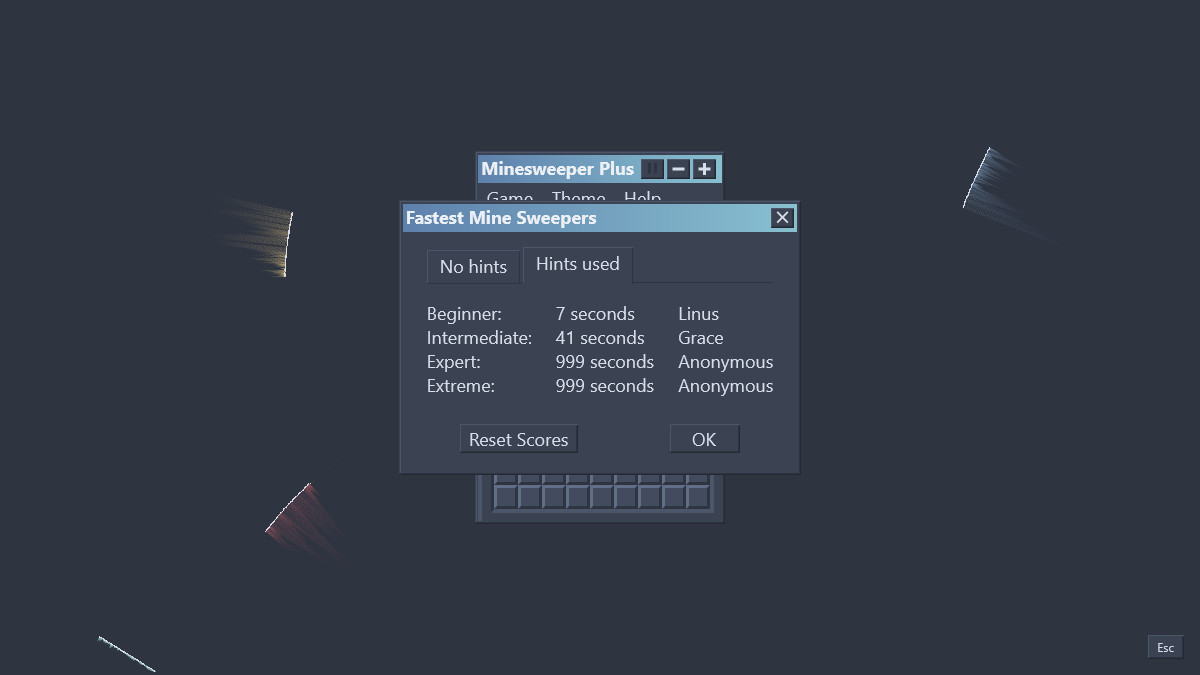
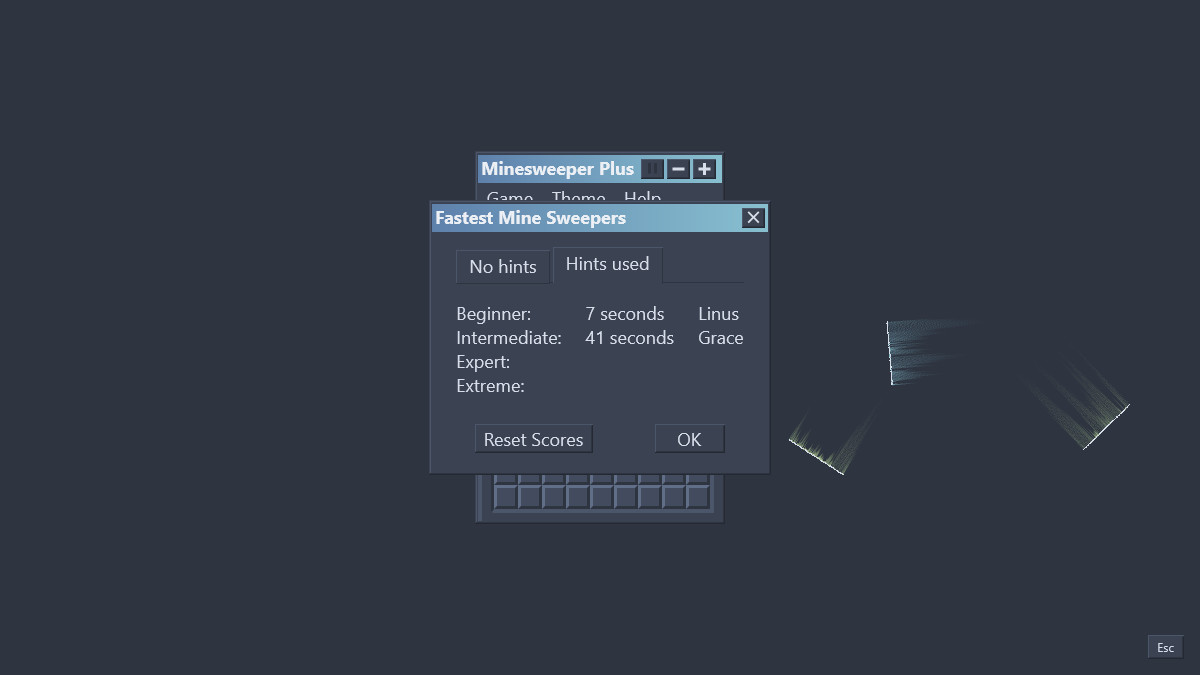
Finish Takuzu: rain glyphs, About, README and screenshots
Takuzu's Theme menu gets Rain Glyphs on Matrix, drawing 0 and 1 as two
glyphs from the digital rain with its glow, and a Help menu with an About
box. Esc now closes an open menu before it shows the spreadsheet, in both
games. The README covers both games, with Takuzu screenshots and link
preview, and the best times screenshot is retaken without 999.

diff --git a/src/shell/backgrounds/matrix.js b/src/shell/backgrounds/matrix.js
@@ -95,32 +95,52 @@ const newStrip = (count) => {
 //each sprite is padded to hold a glyph plus the glow around it
 const PAD = 1.6
 
+export const GLYPH = '#2cff6e'
+export const BRIGHT = '#d4ffe0'
+
+//one mirrored glowing glyph centred at x, y in a cell sized sprite
+const drawGlyph = (context, glyph, x, y, cell, colour) => {
+  context.save()
+  context.font = `${Math.round((cell / PAD) * 0.8)}px monospace`
+  context.textAlign = 'center'
+  context.textBaseline = 'middle'
+  context.fillStyle = colour
+  context.shadowColor = colour
+  context.translate(x, y)
+  context.scale(-1, 1)
+  //a wide soft halo then a tighter one for a phosphor glow
+  context.shadowBlur = cell * 0.3
+  context.fillText(glyph, 0, 0)
+  context.fillText(glyph, 0, 0)
+  context.shadowBlur = cell * 0.07
+  context.fillText(glyph, 0, 0)
+  context.restore()
+}
+
 //mirrored glowing glyphs, a plain row and a bright row
 const buildAtlas = (glyphs, cell) => {
   const atlas = document.createElement('canvas')
   atlas.width = cell * glyphs.length
   atlas.height = cell * 2
   const context = atlas.getContext('2d')
-  context.font = `${Math.round((cell / PAD) * 0.8)}px monospace`
-  context.textAlign = 'center'
-  context.textBaseline = 'middle'
-  ;['#2cff6e', '#d4ffe0'].forEach((colour, row) => {
-    context.fillStyle = colour
-    context.shadowColor = colour
+  ;[GLYPH, BRIGHT].forEach((colour, row) => {
     glyphs.forEach((glyph, i) => {
-      context.save()
-      context.translate((i + 0.5) * cell, (row + 0.5) * cell)
-      context.scale(-1, 1)
-      //a wide soft halo then a tighter one for a phosphor glow
-      context.shadowBlur = cell * 0.3
-      context.fillText(glyph, 0, 0)
-      context.fillText(glyph, 0, 0)
-      context.shadowBlur = cell * 0.07
-      context.fillText(glyph, 0, 0)
-      context.restore()
+      drawGlyph(context, glyph, (i + 0.5) * cell, (row + 0.5) * cell, cell, colour)
     })
   })
   return atlas
+}
+
+export const rainGlyphs = encodings.matrix
+
+//a single rain glyph as an image url, for other pages to draw with, null without canvas
+export const glyphImage = (glyph, cell, colour = GLYPH) => {
+  const canvas = document.createElement('canvas')
+  canvas.width = canvas.height = cell
+  const context = canvas.getContext('2d')
+  if (!context) return null
+  drawGlyph(context, glyph, cell / 2, cell / 2, cell, colour)
+  return canvas.toDataURL()
 }
 
 //the defaults are the look the matrix theme was tuned with

diff --git a/src/takuzu/About.jsx b/src/takuzu/About.jsx
@@ -1,0 +1,55 @@
+import { h } from 'hyperapp'
+import s from '../About.module.css'
+import Overlay from '../Overlay'
+import Dialog from '../Dialog'
+import Button from '../Button'
+
+const Link = ({ href }, children) => (
+  <a class={s.link} href={href} target="_blank" rel="noopener noreferrer">
+    {children}
+  </a>
+)
+
+const About = ({ key, actions }) => (
+  <Overlay key={key} onKeyDown={(event) => event.keyCode === 27 && actions.toggleAbout()}>
+    <Dialog title="About Takuzu Plus" onClose={actions.toggleAbout}>
+      <div class={s.root}>
+        <p class={s.name}>Takuzu Plus</p>
+        <p>
+          Binary puzzles: fill the grid with 0s and 1s so that no row or column has three alike in a
+          row, every row and column holds as many 0s as 1s, and no two rows or two columns are the
+          same.
+        </p>
+        <p>
+          Every board has exactly one solution and can be solved by logic alone, from easy to
+          expert, and hints explain their reasoning. Takuzu, also known as Binairo, was devised by
+          Frank Coussement and Peter De Schepper.
+        </p>
+        <p>
+          Part of Puzzles by fexofenadine, sharing its window, themes and backgrounds with
+          Minesweeper Plus, which is based on{' '}
+          <Link href="https://github.com/frenzzy/minesweeper">Minesweeper</Link> by Vladimir
+          Kutepov.
+        </p>
+        <p>
+          Uses canvas ports of xscreensaver's GLMatrix, Substrate, Truchet and Phosphor under the
+          xscreensaver licence, fonts under the SIL Open Font License and LGPL 2.1, photos from
+          Unsplash and CC0 photos from Wikimedia Commons, and the SynthWave '84, Solarized and Nord
+          colour schemes. Released under the MIT licence; full credits are in the README.
+        </p>
+        <p>
+          <Link href="https://github.com/fexofenadine/puzzles">
+            github.com/fexofenadine/puzzles
+          </Link>
+        </p>
+        <div class={s.footer}>
+          <Button type="button" onClick={actions.toggleAbout} onCreate={(el) => el.focus()}>
+            <span class={s.button}>OK</span>
+          </Button>
+        </div>
+      </div>
+    </Dialog>
+  </Overlay>
+)
+
+export default About

diff --git a/src/takuzu/app.jsx b/src/takuzu/app.jsx
@@ -12,6 +12,8 @@ import { allowed, levelNames } from './Menu'
 import { EMPTY, emptyBoard, full, sizes, solved } from './rules'
 import { findHint } from './hint'
 import { deal } from './deal'
+import { showRain } from './rain'
+import About from './About'
 
 //the saved size and level, medium 8x8 when missing or out of range
 const loadChoice = () => {
@@ -98,6 +100,8 @@ export const state = {
   hint: null,
   prompt: false,
   errors: Boolean(load('takuzu.errors')),
+  rain: Boolean(load('takuzu.rain')),
+  about: false,
   game: createGame(loadChoice()),
   winner: null,
   bestTime: null,
@@ -108,6 +112,7 @@ export const actions = {
   init: () => (state, actions) => {
     window.addEventListener('keydown', actions.press)
     listen(actions)
+    showRain(state.rain)
     actions.reset()
   },
   press: (event) => (state, actions) => {
@@ -196,6 +201,14 @@ export const actions = {
     save('takuzu.errors', state.errors ? '' : 'yes')
     return { menu: null, errors: !state.errors }
   },
+  toggleRain: () => (state) => {
+    save('takuzu.rain', state.rain ? '' : 'yes')
+    showRain(!state.rain)
+    return { menu: null, rain: !state.rain }
+  },
+  toggleAbout:
+    () =>
+    ({ about }) => ({ menu: null, about: !about }),
   //stop the clock and hide the board, only while a game is running
   pause:
     (paused) =>
@@ -279,6 +292,7 @@ export const view = (state, actions) => (
     {state.backgroundSettings && (
       <BackgroundSettings key="e" state={state.backgroundSettings} actions={actions} />
     )}
+    {state.about && <About key="f" actions={actions} />}
     {state.boss && <Boss key="g" state={state.boss} actions={actions} />}
   </main>
 )

diff --git a/src/takuzu/Cell.module.css b/src/takuzu/Cell.module.css
@@ -141,3 +141,28 @@
 .hintWrong {
   --hint-color: #ff3b3b;
 }
+
+/*rain glyphs on matrix: a green glyph on black for 0, a bright one on dark green for 1*/
+:global(:root[data-theme='matrix'][data-rain]) .zero,
+:global(:root[data-theme='matrix'][data-rain]) .one {
+  color: transparent;
+  background-position: center;
+  background-size: 140%;
+  background-repeat: no-repeat;
+}
+
+:global(:root[data-theme='matrix'][data-rain]) .zero {
+  background-color: #020a04;
+  background-image: var(--tz-rain-0);
+}
+
+:global(:root[data-theme='matrix'][data-rain]) .one {
+  background-color: #0b3d1a;
+  background-image: var(--tz-rain-1);
+}
+
+:global(:root[data-theme='matrix'][data-rain]) .given {
+  box-shadow:
+    inset 1px 1px 0 var(--cell-shadow),
+    inset 0 0 0 3px rgba(57, 210, 107, 0.45);
+}

diff --git a/src/takuzu/rain.js b/src/takuzu/rain.js
@@ -1,0 +1,21 @@
+import { BRIGHT, GLYPH, glyphImage } from '../shell/backgrounds/matrix'
+
+//two glyphs from the matrix rain for 0 and 1, drawn the way the rain draws them
+export const rain = ['ﾊ', 'ﾐ']
+
+//draws them once and hands them to the css, which only uses them on the matrix theme
+export const showRain = (on) => {
+  const root = document.documentElement
+  if (!on) {
+    delete root.dataset.rain
+    return
+  }
+  if (!root.style.getPropertyValue('--tz-rain-0')) {
+    const zero = glyphImage(rain[0], 192, GLYPH)
+    const one = glyphImage(rain[1], 192, BRIGHT)
+    if (!zero || !one) return
+    root.style.setProperty('--tz-rain-0', `url(${zero})`)
+    root.style.setProperty('--tz-rain-1', `url(${one})`)
+  }
+  root.dataset.rain = 'on'
+}

diff --git a/src/shell/ThemeMenu.jsx b/src/shell/ThemeMenu.jsx
@@ -3,8 +3,8 @@ import { MenuItem, Separator, SubMenuItem } from '../Menu'
 import { backgroundFor } from './backgrounds'
 import { themes } from './themes'
 
-//the theme menu every game shares
-const ThemeMenu = ({ state, actions }) => (
+//the theme menu every game shares, a game's own theme options go after it
+const ThemeMenu = ({ state, actions }, children) => (
   <MenuItem name="Theme" type="theme" active={state.menu} onChange={actions.toggleMenu}>
     {themes.map(([theme, name]) => (
       <SubMenuItem
@@ -17,6 +17,7 @@ const ThemeMenu = ({ state, actions }) => (
     {backgroundFor(state.theme) && (
       <SubMenuItem name="Background Settings..." onClick={actions.toggleBackgroundSettings} />
     )}
+    {children}
   </MenuItem>
 )
 

diff --git a/src/shell/actions.js b/src/shell/actions.js
@@ -39,7 +39,9 @@ export const shortcut = (event, state, actions) => {
   const typing = ['INPUT', 'SELECT', 'TEXTAREA'].includes(event.target.tagName)
   if (typing || event.ctrlKey || event.metaKey || event.altKey) return null
   if (event.keyCode === 27) {
-    actions.boss()
+    //an open menu closes first, as in windows
+    if (state.menu) actions.closeMenu()
+    else actions.boss()
     return null
   }
   //the spreadsheet only answers to esc
@@ -47,6 +49,7 @@ export const shortcut = (event, state, actions) => {
 }
 
 export const shellActions = {
+  closeMenu: () => ({ menu: null }),
   setPortrait: (portrait) => ({ portrait }),
   //esc covers everything with a spreadsheet and pauses the game
   boss:

diff --git a/src/takuzu/Menu.jsx b/src/takuzu/Menu.jsx
@@ -41,7 +41,15 @@ const Menu = ({ state, actions }) => (
         />
       ))}
     </MenuItem>
-    <ThemeMenu state={state} actions={actions} />
+    <ThemeMenu state={state} actions={actions}>
+      {state.theme === 'matrix' && <Separator />}
+      {state.theme === 'matrix' && (
+        <SubMenuItem name="Rain Glyphs" checked={state.rain} onClick={actions.toggleRain} />
+      )}
+    </ThemeMenu>
+    <MenuItem name="Help" type="help" active={state.menu} onChange={actions.toggleMenu}>
+      <SubMenuItem name="About Takuzu Plus..." onClick={actions.toggleAbout} />
+    </MenuItem>
   </ul>
 )
 

diff --git a/src/app.test.jsx b/src/app.test.jsx
@@ -436,3 +436,15 @@ it('hides the board while paused and covers the page with the spreadsheet', () =
     )
     app(shown, actions, testView, container)
   }))
+
+it('esc closes an open menu before it shows the spreadsheet', () => {
+  start({ game: chordGame(), menu: { game: true } })
+  const esc = () => wired.press({ keyCode: 27, target: { tagName: 'BODY' } })
+  esc()
+  wired.peek()
+  expect(current.menu).toBe(null)
+  expect(current.boss).toBe(null)
+  esc()
+  wired.peek()
+  expect(current.boss).not.toBe(null)
+})

diff --git a/src/takuzu/app.test.jsx b/src/takuzu/app.test.jsx
@@ -168,3 +168,13 @@ it('drops an answer from an older deal', async () => {
   expect(now().game).toMatchObject({ n: 10, dealing: false })
   expect(now().game.board).toHaveLength(100)
 })
+
+it('remembers the rain glyph choice and opens the about box', () => {
+  wired.toggleRain()
+  expect(now().rain).toBe(true)
+  expect(localStorage.getItem('takuzu.rain')).toBe('yes')
+  wired.toggleRain()
+  expect(now().rain).toBe(false)
+  wired.toggleAbout()
+  expect(now().about).toBe(true)
+})

diff --git a/README.md b/README.md
@@ -1,10 +1,10 @@
-# Minesweeper Plus
+# Puzzles
 
-A Windows style minesweeper with classic, synthwave, solarized truchet, solarized phosphor, matrix and nord themes.
+Windows style puzzle games with hints that explain their reasoning, boards you can solve by logic alone, zoom and animated themes ported from xscreensaver. Both games share the window, the six themes and their backgrounds, pause and the boss key, and your theme and zoom carry over between them.
 
-[Play Minesweeper Plus](https://fexofenadine.github.io/puzzles/minesweeper/)
-
-[![Play Minesweeper Plus](public/minesweeper/minesweeper.jpg)](https://fexofenadine.github.io/puzzles/minesweeper/)
+| [Play Minesweeper Plus](https://fexofenadine.github.io/puzzles/minesweeper/)                                        | [Play Takuzu Plus](https://fexofenadine.github.io/puzzles/takuzu/)                              |
+| ------------------------------------------------------------------------------------------------------------------- | ----------------------------------------------------------------------------------------------- |
+| [![Play Minesweeper Plus](public/minesweeper/minesweeper.jpg)](https://fexofenadine.github.io/puzzles/minesweeper/) | [![Play Takuzu Plus](public/takuzu/takuzu.jpg)](https://fexofenadine.github.io/puzzles/takuzu/) |
 
 ## Themes
 
@@ -18,7 +18,28 @@ Pick a theme from the **Theme** menu. Your choice is remembered.
 | **Solarized Truchet**                                | **Solarized Phosphor**                               |
 | ![Solarized Truchet](docs/screenshots/solarized.jpg) | ![Solarized Phosphor](docs/screenshots/phosphor.jpg) |
 
-## What this fork adds
+## Takuzu Plus
+
+Binary puzzles: fill the grid with 0s and 1s so that no row or column has three alike in a row, every row and column holds as many 0s as 1s, and no two rows or two columns are the same.
+
+| Classic, with a hint                                        | Synthwave, with Show Errors                                   |
+| ----------------------------------------------------------- | ------------------------------------------------------------- |
+| ![Takuzu on Classic](docs/screenshots/takuzu-classic.jpg)   | ![Takuzu on Synthwave](docs/screenshots/takuzu-synthwave.jpg) |
+| **Matrix, with rain glyphs**                                | **Nord, 14 × 14 expert**                                      |
+| ![Takuzu on Matrix](docs/screenshots/takuzu-matrix.jpg)     | ![Takuzu on Nord](docs/screenshots/takuzu-nord.jpg)           |
+| **A full board with a mistake**                             | **Best times**                                                |
+| ![Full board prompt](docs/screenshots/takuzu-solarized.jpg) | ![Takuzu best times](docs/screenshots/takuzu-phosphor.jpg)    |
+
+- **Every board has exactly one solution** and can be solved by logic alone. Boards are made fresh each game: a random full grid, then clues taken away for as long as the chosen level can still finish it.
+- **Four levels** (Game menu), each needing its own reasoning: **Easy** uses pairs (two alike side by side) and gaps (a cell between two alike); **Medium** adds full counts (a line with all its 0s or all its 1s); **Hard** adds balance (every way to finish a line agrees on a cell) and no repeated lines; **Expert** adds a short what-if (a value that soon breaks a rule must be the other one). A board is only dealt at a level if it needs that level's reasoning.
+- **Five sizes** (Size menu), 6 × 6 to 14 × 14. Small boards never need a what-if, so 6 × 6 has no Expert.
+- **Playing**: click a cell to step it through 0, 1 and empty, right-click to step back, or tap on a touch screen. Clues are bold and framed and can't be changed. **Undo** (Ctrl+Z, the Game menu or the arrow button) takes back one change at a time.
+- **Hint** (`H`, the Game menu or the ? button): points out a broken rule first, then a cell that can't fit the only solution, and otherwise the easiest next step with the cells it reasons from outlined in blue, the cell it fills in green and the reason under the board.
+- **Show Errors** (Game menu, off by default) stripes cells that break a rule as you go. When every cell is filled but the board isn't solved, the game asks whether you want a hint, or lets you find the mistake yourself.
+- **Colours**: the two values are tiles in near complementary colours from each theme, blue and orange on Classic and the Solarized themes, cyan and pink on Synthwave, frost and aurora on Nord, and green on black against black on green on Matrix. **Rain Glyphs** (Theme menu, on Matrix) draws them as two glyphs from the digital rain instead.
+- **Best times** for every size and level, with and without hints, the window title (Takuzu on Classic, Takuzu Plus elsewhere), zoom and fit, pause, the boss key and the shortcuts work as in Minesweeper Plus. Big expert boards are dealt in the background, so the window never stalls.
+
+## Minesweeper Plus
 
 On top of the [original game](https://github.com/frenzzy/minesweeper), which has the classic look, the beginner, intermediate, expert and custom levels, marks, best times and touch support, this fork adds:
 
@@ -42,7 +63,7 @@ On top of the [original game](https://github.com/frenzzy/minesweeper), which has
 - **Pause** (title bar button or `P`): stops the clock and hides the board behind plain tiles until you press play. The game also pauses when the tab is hidden or the window loses focus, and waits for play when you come back.
 - **Boss key** (`Esc` or the button in the bottom right corner): covers the screen with a spreadsheet of fresh made up figures, renames the tab and swaps its icon, and pauses the game. Press it again, or click the 100% in the status bar, to go back.
 - **Best times** are kept in two tabs, one for games played without hints and one for games where a hint was used.
-- **Shortcuts**: F2 or N starts a new game, H asks for a hint, P pauses and Esc is the boss key. They are ignored while typing in a dialog or with Ctrl, Alt or Cmd held.
+- **Shortcuts**: F2 or N starts a new game, H asks for a hint, P pauses and Esc is the boss key (Esc closes an open menu first). They are ignored while typing in a dialog or with Ctrl, Alt or Cmd held.
 
 ### Window and display
 
@@ -74,9 +95,11 @@ On top of the [original game](https://github.com/frenzzy/minesweeper), which has
 - Rebuilt on [Vite](https://vite.dev) with Vitest, ESLint and Prettier, replacing the abandoned hyperapp-tools webpack 4 setup.
 - A plain static build with readable asset names, versioned links so browsers never mix old and new files, and a simple offline-capable service worker.
 - Settings survive browsers that block site storage, falling back to the defaults.
-- Animated backgrounds are canvas ports in `src/backgrounds`, one file each. A port declares its options and the settings dialog builds itself from them, so adding another xscreensaver hack needs no other code. Phosphor's source code text is only downloaded when that theme is used.
+- Both games are pages of one build. Code they share (themes, backgrounds, zoom, pause, the boss key, settings storage) lives in `src/shell`, Minesweeper keeps the original's file layout in `src`, and Takuzu has `src/takuzu`.
+- Takuzu's rules, an exact line-by-line solver, the technique ladder behind hints and difficulty, and the generator are plain modules with no interface code, and boards are dealt in a web worker.
+- Animated backgrounds are canvas ports in `src/shell/backgrounds`, one file each. A port declares its options and the settings dialog builds itself from them, so adding another xscreensaver hack needs no other code. Phosphor's source code text is only downloaded when that theme is used.
 - Google Analytics removed.
-- Tests for mine placement and the no-guessing solver, chording and its explanations, hints, best times, zoom and fitting, portrait boards and every background and its settings.
+- Tests for mine placement and the no-guessing solver, chording and its explanations, hints, best times, zoom and fitting, portrait boards and every background and its settings, and for Takuzu's rules, solver (checked against a brute force search), every technique, difficulty rating, generation at every size and level, hints that always agree with the solution, and playing.
 
 ## Development
 
@@ -89,13 +112,14 @@ yarn lint     #lint
 yarn deploy   #build and publish to github pages
 ```
 
-Classic's hill (`src/backgrounds/hill.webp` and `ridge.json`) is made from the CC0 source photo by `src/backgrounds/hill.py`, which needs Python with Pillow and numpy. The theme fonts are converted by `src/fonts/convert.mjs`.
+Classic's hill (`src/shell/backgrounds/hill.webp` and `ridge.json`) is made from the CC0 source photo by `src/shell/backgrounds/hill.py`, which needs Python with Pillow and numpy. The theme fonts are converted by `src/fonts/convert.mjs`.
 
 ## Credits
 
+- Takuzu, also known as Binairo, was devised by Frank Coussement and Peter De Schepper. This version's puzzles, solver and hints are its own.
 - Forked from [frenzzy/minesweeper](https://github.com/frenzzy/minesweeper) by Vladimir Kutepov, bootstrapped with [Hyperapp Starter](https://github.com/kriasoft/hyperapp-starter).
 - Classic background by [Chris Barbalis](https://unsplash.com/photos/green-grass-field-under-blue-sky--nYBR0LFTvQ) on Unsplash, colour matched to resemble Bliss.
-- Classic's animated hill is cut from [Clouds above Cattle Hill, Roedean](<https://commons.wikimedia.org/wiki/File:Clouds_above_Cattle_Hill,_Roedean_(February_2011).JPG>) by Hassocks5489 (CC0), retouched, mirrored and colour matched to Bliss by `src/backgrounds/hill.py`. Its sky and clouds are drawn live.
+- Classic's animated hill is cut from [Clouds above Cattle Hill, Roedean](<https://commons.wikimedia.org/wiki/File:Clouds_above_Cattle_Hill,_Roedean_(February_2011).JPG>) by Hassocks5489 (CC0), retouched, mirrored and colour matched to Bliss by `src/shell/backgrounds/hill.py`. Its sky and clouds are drawn live.
 - Synthwave background by [Neeqolah Creative Works](https://unsplash.com/photos/a-computer-generated-image-of-a-sun-setting-in-the-distance-Tn5gnXGI3hI) on Unsplash.
 - Synthwave colours from [SynthWave '84](https://github.com/robb0wen/synthwave-vscode) by Robb Owen.
 - Matrix code rain is a canvas port of [GLMatrix](https://github.com/xscreensaver/xscreensaver/blob/master/hacks/glx/glmatrix.c) from xscreensaver by Jamie Zawinski.
